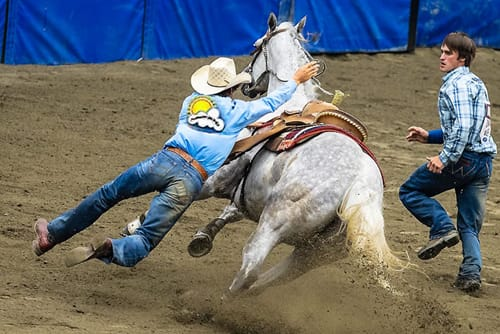
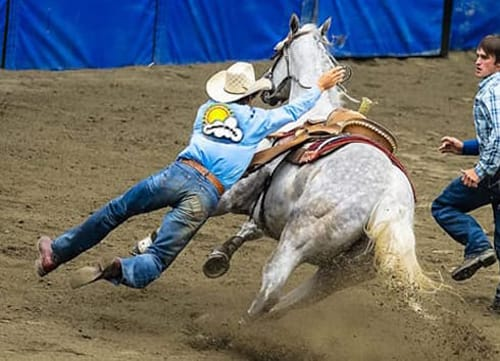
commit

diff --git a/lesson11/preston.html b/lesson11/preston.html
@@ -59,7 +59,7 @@
         <h2 id="preston">Preston Idaho</h2>
         <div class="hero-box">
             <div class="hero">
-                <picture id="heroimg">
+                <picture id="heroimg" class="flip">
                     <source srcset="images/rodeoblue500.jpg" media="(max-width: 767px)">
                     <source srcset="images/rodeoblue700.jpg" media="(min-width: 768px) and 
                     (max-width: 1187px)">

diff --git a/lesson11/css/small.css b/lesson11/css/small.css
@@ -212,15 +212,16 @@ p {
     width: 100%;
 }
 
+
 .weather-summary {
     position: absolute;
-    top: -11px;
+    top: 0px;
     left: 0px;
-    background-color: rgba(1, 103, 161, 0.85);
+    background-color: rgba(1, 75, 117, 0.7);
     border: rgb(1, 82, 136) solid 2px;
     color: white;
     padding: 0 15px;
-    max-width: 50%;
+    max-width: 45%;
     border-radius: 15px;
     box-shadow: 0 0 55px lemonchiffon;
 }
